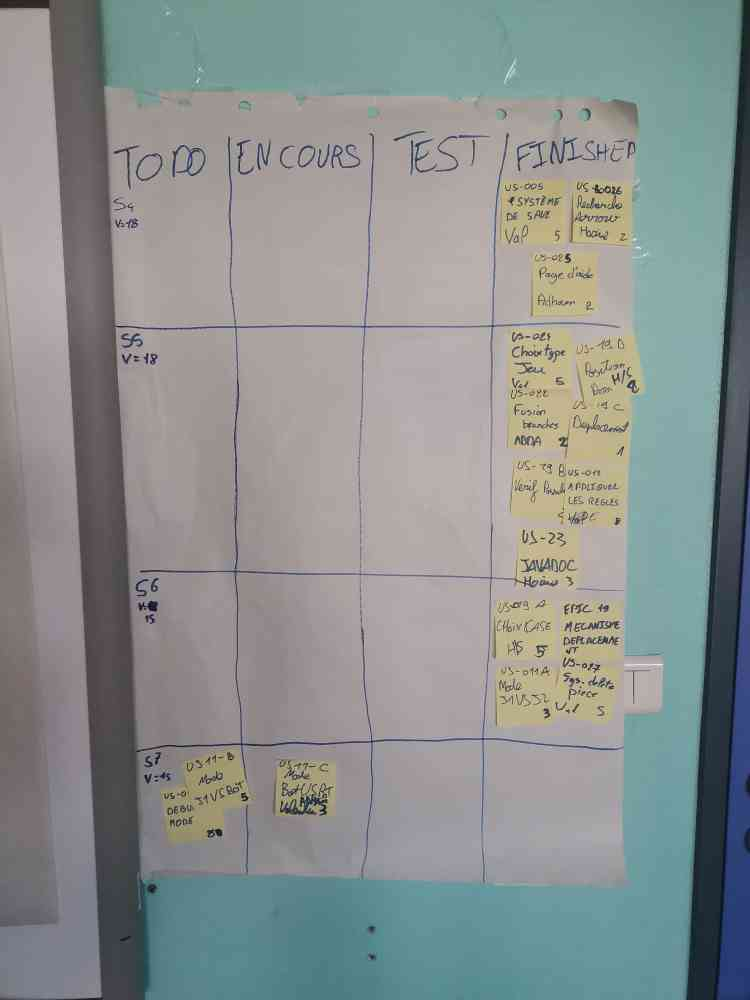
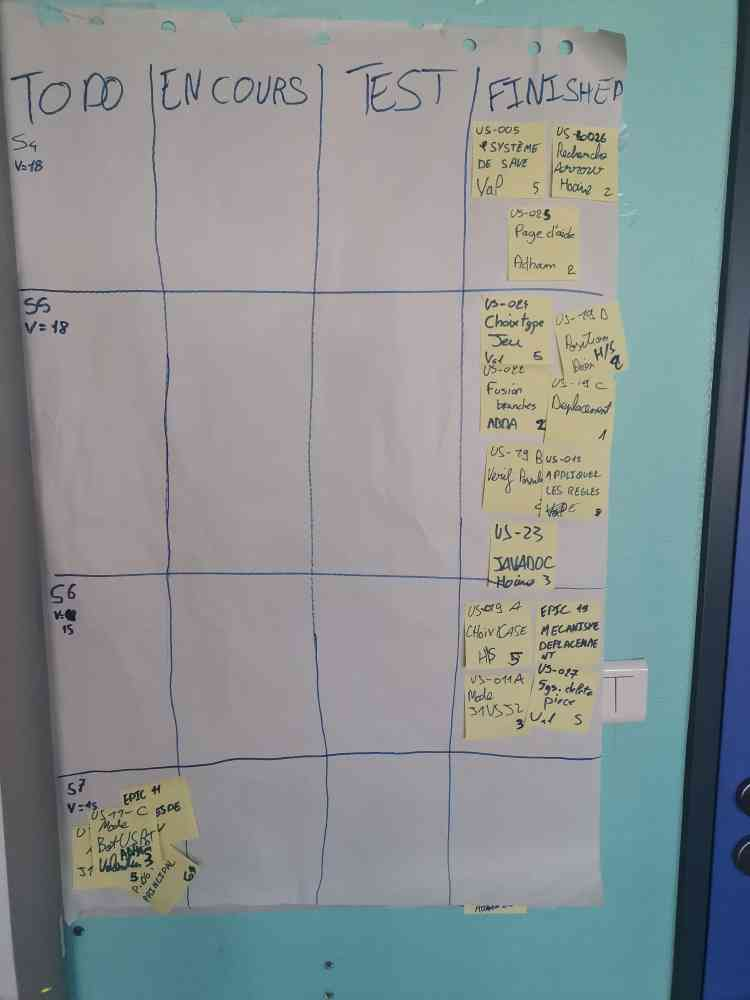
sprint 8

diff --git a/doc/sprint-6/README.md b/doc/sprint-6/README.md
@@ -12,7 +12,7 @@ Nous avons fait:
 ### Ce que nous allons faire durant le prochain sprint
 - US-011B : J1 vs Bot
 - US-011C : Bot vs Bot
-- US-017 : Debug mode
+- US-014 : Programme principal
 
 ## Rétrospective
 
